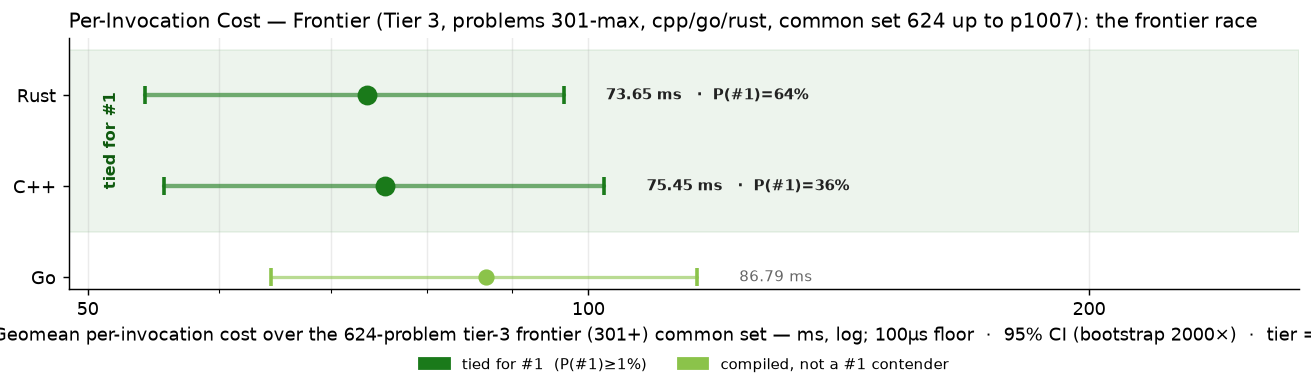
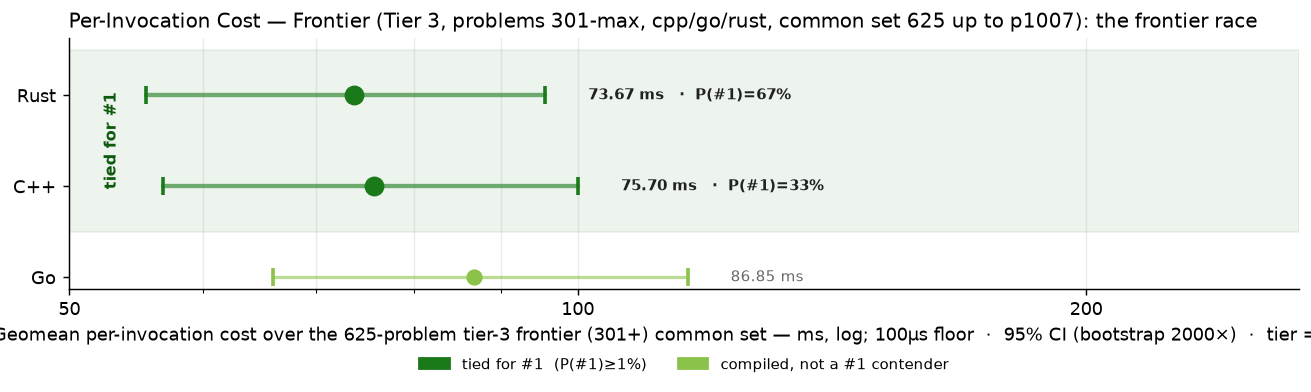
cpp p0677

diff --git a/RESULTS.md b/RESULTS.md
@@ -1,6 +1,6 @@
 # Project Euler — Cross-Language Benchmarks
 
-> **Scope: 4521 in-scope cells across 1007 problems × tiered languages — 4358 measured (96.4% coverage).**
+> **Scope: 4521 in-scope cells across 1007 problems × tiered languages — 4359 measured (96.4% coverage).**
 > The cross-language ranking below is computed over the **200-problem common set** (problems in 1-200 where every language has a passing measurement) — the apples-to-apples Foundation comparison surface.  Per-tier rankings and coverage detail appear further below.
 > Growing carefully — each new problem and language is audited for state-leak
 > safety, verified for answer correctness, and added only when it cleanly fits the
@@ -70,15 +70,15 @@ Same scatter as the Foundation chart, restricted to the tier-2 active languages 
 
 The frontier verification trio — C++, Go, Rust — on problems above 300. 3-way cross-language agreement is the verification protocol (strictly stronger than 2-way; see JOURNEY.md "Tier Reframing" episode for the p254 lesson that motivated it). Python and Zig are explicitly out of this tier — python's wall cost makes it impractical at level 5+, and zig's role caps at Tier 2.
 
-### Per-Invocation Cost (Common Set, 624 of ≤707 problems in scope)
+### Per-Invocation Cost (Common Set, 625 of ≤707 problems in scope)
 
 ![Per-Invocation Cost — Tier 3](charts/per_iter_total_tier3.png)
 
-| Rank | Language | Geomean (624-problem common set) | Total (sum) | Lines of code | vs Fastest |
+| Rank | Language | Geomean (625-problem common set) | Total (sum) | Lines of code | vs Fastest |
 |------|----------|--------------------:|------------:|--------------:|-----------:|
-| 1 | **Rust** | 73.65 ms | 1707.69 s | 121,162 | 1.00× |
-| 2 | **C++** | 75.45 ms | 1830.59 s | 89,874 | 1.02× |
-| 3 | **Go** | 86.79 ms | 2103.66 s | 113,826 | 1.18× |
+| 1 | **Rust** | 73.67 ms | 1707.78 s | 121,493 | 1.00× |
+| 2 | **C++** | 75.70 ms | 1831.21 s | 90,071 | 1.03× |
+| 3 | **Go** | 86.85 ms | 2103.80 s | 114,015 | 1.18× |
 
 ### Speed vs Code Size
 
@@ -264,7 +264,7 @@ table never silently mixes versions (METHODOLOGY.md §4).  Current state of the
 |----------|-----------|------:|---------------|
 | **ARM64** | `Apple clang version 21.0.0 (clang-2100.1.1.101)` | 200 | 2026-07-30 |
 | **C** | `Apple clang version 21.0.0 (clang-2100.1.1.101)` | 200 | 2026-07-30 |
-| **C++** | `Apple clang version 21.0.0 (clang-2100.1.1.101)` | 929 | 2026-09-04 |
+| **C++** | `Apple clang version 21.0.0 (clang-2100.1.1.101)` | 930 | 2026-09-04 |
 | **C#** | `10.0.101` | 200 | 2026-07-30 |
 | **Go** | `go version go1.26.5 darwin/arm64` | 927 | 2026-09-04 |
 | **Java** | `openjdk version "21.0.2" 2024-01-16 LTS` | 200 | 2026-07-30 |

diff --git a/per_problem/per_problem_0601-0700.md b/per_problem/per_problem_0601-0700.md
@@ -84,7 +84,7 @@ in tier-1 display order (native → managed → interpreted).
 | **p0674** | 854.95 ms | 142.76 ms | 114.23 ms |
 | **p0675** | 2.65 s | 2.66 s | 3.20 s |
 | **p0676** | 1.38 ms | 625.7 µs | 597.2 µs |
-| **p0677** | — | 88.85 ms | 132.87 ms |
+| **p0677** | 616.64 ms | 88.85 ms | 132.87 ms |
 | **p0678** | 1.40 s | 6.25 s | 6.00 s |
 | **p0679** | 162.0 µs | 151.5 µs | 252.8 µs |
 | **p0680** | 3.02 s | 3.10 s | 3.27 s |
